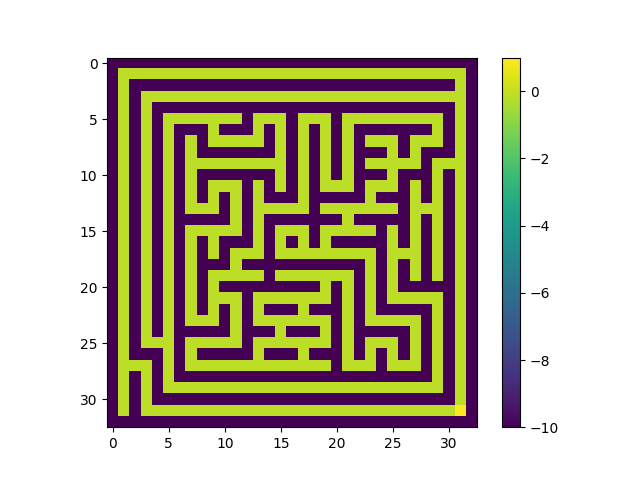
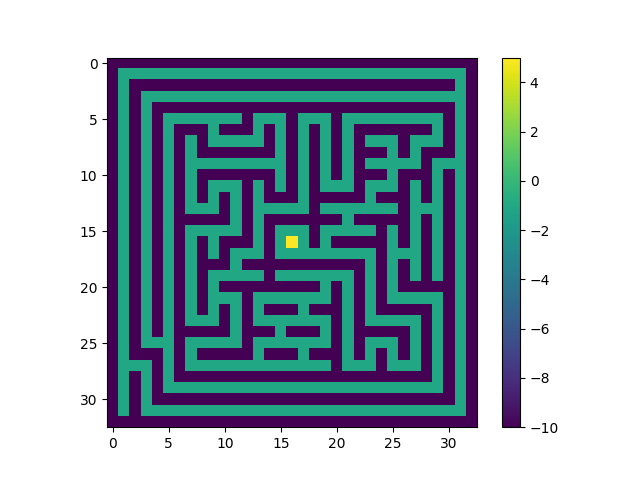
so much change

diff --git a/grid_world.py b/grid_world.py
@@ -2,7 +2,7 @@ import numpy as np
 from webcamcapture import output
 
 # hyper parameters
-GOAL_REWARD = 1
+GOAL_REWARD = 5
 RED_REWARD = -10
 BLUE_REWARD = RED_REWARD/2
 STEP_COST = -1
@@ -207,49 +207,49 @@ def make_grid(y, x, num_obstacles):
             rewards[(j,i)] = STEP_COST
 
     #Adds manual obstacle rewards
-    labyrint = [[1,1,1,1],
-                [0,1,0,0],
-                [0,1,0,1],
-                [1,1,1,1]]
-    goal_x = 3
-    goal_y = 2
-    # labyrint = [[0, 0, 0, 0, 0, 0, 0, 0, 0, 0, 0, 0, 0, 0, 0, 0, 0, 0, 0, 0, 0, 0, 0, 0, 0, 0, 0, 0, 0, 0, 0, 0, 0],
-    #             [0, 1, 1, 1, 1, 1, 1, 1, 1, 1, 1, 1, 1, 1, 1, 1, 1, 1, 1, 1, 1, 1, 1, 1, 1, 1, 1, 1, 1, 1, 1, 1, 0],
-    #             [0, 1, 0, 0, 0, 0, 0, 0, 0, 0, 0, 0, 0, 0, 0, 0, 0, 0, 0, 0, 0, 0, 0, 0, 0, 0, 0, 0, 0, 0, 0, 1, 0],
-    #             [0, 1, 0, 1, 1, 1, 1, 1, 1, 1, 1, 1, 1, 1, 1, 1, 1, 1, 1, 1, 1, 1, 1, 1, 1, 1, 1, 1, 1, 1, 1, 1, 0],
-    #             [0, 1, 0, 1, 0, 0, 0, 0, 0, 0, 0, 0, 0, 0, 0, 0, 0, 0, 0, 0, 0, 0, 0, 0, 0, 0, 0, 0, 0, 0, 0, 1, 0],
-    #             [0, 1, 0, 1, 0, 1, 1, 1, 1, 1, 1, 1, 0, 1, 1, 1, 0, 1, 1, 1, 0, 1, 1, 1, 1, 1, 1, 1, 1, 1, 0, 1, 0],
-    #             [0, 1, 0, 1, 0, 1, 0, 0, 0, 1, 0, 0, 0, 1, 0, 1, 0, 1, 0, 1, 0, 1, 0, 0, 0, 0, 0, 0, 0, 1, 0, 1, 0],
-    #             [0, 1, 0, 1, 0, 1, 0, 1, 0, 1, 1, 1, 1, 1, 0, 1, 0, 1, 0, 1, 0, 1, 0, 1, 1, 1, 0, 1, 1, 1, 0, 1, 0],
-    #             [0, 1, 0, 1, 0, 1, 0, 1, 0, 0, 0, 0, 0, 0, 0, 1, 0, 1, 0, 1, 0, 1, 0, 0, 0, 1, 0, 1, 0, 0, 0, 1, 0],
-    #             [0, 1, 0, 1, 0, 1, 0, 1, 1, 1, 1, 1, 1, 1, 1, 1, 0, 1, 0, 1, 0, 1, 0, 1, 1, 1, 1, 1, 0, 1, 1, 1, 0],
-    #             [0, 1, 0, 1, 0, 1, 0, 1, 0, 0, 0, 0, 0, 0, 0, 1, 0, 1, 0, 1, 0, 1, 0, 0, 0, 1, 0, 0, 0, 1, 0, 1, 0],
-    #             [0, 1, 0, 1, 0, 1, 0, 1, 0, 1, 1, 1, 0, 1, 0, 1, 0, 1, 0, 1, 1, 1, 0, 1, 1, 1, 0, 1, 0, 1, 0, 1, 0],
-    #             [0, 1, 0, 1, 0, 1, 0, 1, 0, 1, 0, 1, 0, 1, 0, 0, 0, 1, 0, 0, 0, 0, 0, 1, 0, 0, 0, 1, 0, 1, 0, 1, 0],
-    #             [0, 1, 0, 1, 0, 1, 0, 1, 1, 1, 0, 1, 0, 1, 1, 1, 1, 1, 0, 1, 1, 1, 1, 1, 1, 1, 0, 1, 1, 1, 0, 1, 0],
-    #             [0, 1, 0, 1, 0, 1, 0, 0, 0, 0, 0, 1, 0, 1, 0, 0, 0, 0, 0, 0, 0, 1, 0, 0, 0, 0, 0, 1, 0, 1, 0, 1, 0],
-    #             [0, 1, 0, 1, 0, 1, 0, 1, 1, 1, 1, 1, 0, 1, 0, 1, 1, 1, 0, 1, 1, 1, 1, 1, 0, 1, 0, 1, 0, 1, 0, 1, 0],
-    #             [0, 1, 0, 1, 0, 1, 0, 1, 0, 1, 0, 0, 0, 1, 0, 1, 0, 1, 0, 1, 0, 0, 0, 0, 0, 1, 0, 1, 0, 1, 0, 1, 0],
-    #             [0, 1, 0, 1, 0, 1, 0, 1, 0, 1, 0, 1, 1, 1, 0, 1, 1, 1, 1, 1, 1, 1, 1, 1, 0, 1, 1, 1, 0, 1, 0, 1, 0],
-    #             [0, 1, 0, 1, 0, 1, 0, 1, 0, 0, 0, 1, 0, 0, 0, 0, 0, 0, 0, 0, 0, 0, 0, 1, 0, 1, 0, 1, 0, 1, 0, 1, 0],
-    #             [0, 1, 0, 1, 0, 1, 0, 1, 0, 1, 1, 1, 1, 1, 0, 1, 1, 1, 1, 1, 1, 1, 0, 1, 0, 1, 0, 1, 0, 1, 0, 1, 0],
-    #             [0, 1, 0, 1, 0, 1, 0, 1, 0, 1, 0, 0, 0, 0, 0, 0, 0, 0, 0, 1, 0, 1, 0, 1, 0, 1, 0, 0, 0, 0, 0, 1, 0],
-    #             [0, 1, 0, 1, 0, 1, 0, 1, 0, 1, 1, 1, 0, 1, 1, 1, 1, 1, 1, 1, 0, 1, 0, 1, 0, 1, 1, 1, 1, 1, 0, 1, 0],
-    #             [0, 1, 0, 1, 0, 1, 0, 1, 0, 1, 0, 1, 0, 1, 0, 0, 0, 1, 0, 0, 0, 1, 0, 1, 0, 0, 0, 0, 0, 1, 0, 1, 0],
-    #             [0, 1, 0, 1, 0, 1, 0, 1, 1, 1, 0, 1, 0, 1, 1, 1, 1, 1, 1, 1, 0, 1, 0, 1, 1, 1, 1, 1, 0, 1, 0, 1, 0],
-    #             [0, 1, 0, 1, 0, 1, 0, 0, 0, 0, 0, 1, 0, 0, 0, 1, 0, 0, 0, 1, 0, 1, 0, 0, 0, 0, 0, 1, 0, 1, 0, 1, 0],
-    #             [0, 1, 0, 1, 1, 1, 0, 1, 1, 1, 1, 1, 0, 1, 1, 1, 1, 1, 1, 1, 0, 1, 0, 1, 1, 1, 0, 1, 0, 1, 0, 1, 0],
-    #             [0, 1, 0, 0, 0, 1, 0, 1, 0, 0, 0, 0, 0, 1, 0, 0, 0, 1, 0, 0, 0, 1, 0, 1, 0, 1, 0, 1, 0, 1, 0, 1, 0],
-    #             [0, 1, 1, 1, 0, 1, 0, 1, 1, 1, 1, 1, 1, 1, 1, 1, 1, 1, 1, 1, 0, 1, 1, 1, 0, 1, 1, 1, 0, 1, 0, 1, 0],
-    #             [0, 1, 0, 1, 0, 1, 0, 0, 0, 0, 0, 0, 0, 0, 0, 0, 0, 0, 0, 0, 0, 0, 0, 0, 0, 0, 0, 0, 0, 1, 0, 1, 0],
-    #             [0, 1, 0, 1, 0, 1, 1, 1, 1, 1, 1, 1, 1, 1, 1, 1, 1, 1, 1, 1, 1, 1, 1, 1, 1, 1, 1, 1, 1, 1, 0, 1, 0],
-    #             [0, 1, 0, 1, 0, 0, 0, 0, 0, 0, 0, 0, 0, 0, 0, 0, 0, 0, 0, 0, 0, 0, 0, 0, 0, 0, 0, 0, 0, 0, 0, 1, 0],
-    #             [0, 1, 0, 1, 1, 1, 1, 1, 1, 1, 1, 1, 1, 1, 1, 1, 1, 1, 1, 1, 1, 1, 1, 1, 1, 1, 1, 1, 1, 1, 1, 1, 0],
-    #             [0, 0, 0, 0, 0, 0, 0, 0, 0, 0, 0, 0, 0, 0, 0, 0, 0, 0, 0, 0, 0, 0, 0, 0, 0, 0, 0, 0, 0, 0, 0, 0, 0]]
-    #goal_x = 16
-    #goal_y = 16
-    # k = 0
-    # l = 0
+    # labyrint = [[1,1,1,1],
+    #             [0,1,0,0],
+    #             [0,1,0,1],
+    #             [1,1,1,1]]
+    # goal_x = 3
+    # goal_y = 2
+    labyrint = [[0, 0, 0, 0, 0, 0, 0, 0, 0, 0, 0, 0, 0, 0, 0, 0, 0, 0, 0, 0, 0, 0, 0, 0, 0, 0, 0, 0, 0, 0, 0, 0, 0],
+                [0, 1, 1, 1, 1, 1, 1, 1, 1, 1, 1, 1, 1, 1, 1, 1, 1, 1, 1, 1, 1, 1, 1, 1, 1, 1, 1, 1, 1, 1, 1, 1, 0],
+                [0, 1, 0, 0, 0, 0, 0, 0, 0, 0, 0, 0, 0, 0, 0, 0, 0, 0, 0, 0, 0, 0, 0, 0, 0, 0, 0, 0, 0, 0, 0, 1, 0],
+                [0, 1, 0, 1, 1, 1, 1, 1, 1, 1, 1, 1, 1, 1, 1, 1, 1, 1, 1, 1, 1, 1, 1, 1, 1, 1, 1, 1, 1, 1, 1, 1, 0],
+                [0, 1, 0, 1, 0, 0, 0, 0, 0, 0, 0, 0, 0, 0, 0, 0, 0, 0, 0, 0, 0, 0, 0, 0, 0, 0, 0, 0, 0, 0, 0, 1, 0],
+                [0, 1, 0, 1, 0, 1, 1, 1, 1, 1, 1, 1, 0, 1, 1, 1, 0, 1, 1, 1, 0, 1, 1, 1, 1, 1, 1, 1, 1, 1, 0, 1, 0],
+                [0, 1, 0, 1, 0, 1, 0, 0, 0, 1, 0, 0, 0, 1, 0, 1, 0, 1, 0, 1, 0, 1, 0, 0, 0, 0, 0, 0, 0, 1, 0, 1, 0],
+                [0, 1, 0, 1, 0, 1, 0, 1, 0, 1, 1, 1, 1, 1, 0, 1, 0, 1, 0, 1, 0, 1, 0, 1, 1, 1, 0, 1, 1, 1, 0, 1, 0],
+                [0, 1, 0, 1, 0, 1, 0, 1, 0, 0, 0, 0, 0, 0, 0, 1, 0, 1, 0, 1, 0, 1, 0, 0, 0, 1, 0, 1, 0, 0, 0, 1, 0],
+                [0, 1, 0, 1, 0, 1, 0, 1, 1, 1, 1, 1, 1, 1, 1, 1, 0, 1, 0, 1, 0, 1, 0, 1, 1, 1, 1, 1, 0, 1, 1, 1, 0],
+                [0, 1, 0, 1, 0, 1, 0, 1, 0, 0, 0, 0, 0, 0, 0, 1, 0, 1, 0, 1, 0, 1, 0, 0, 0, 1, 0, 0, 0, 1, 0, 1, 0],
+                [0, 1, 0, 1, 0, 1, 0, 1, 0, 1, 1, 1, 0, 1, 0, 1, 0, 1, 0, 1, 1, 1, 0, 1, 1, 1, 0, 1, 0, 1, 0, 1, 0],
+                [0, 1, 0, 1, 0, 1, 0, 1, 0, 1, 0, 1, 0, 1, 0, 0, 0, 1, 0, 0, 0, 0, 0, 1, 0, 0, 0, 1, 0, 1, 0, 1, 0],
+                [0, 1, 0, 1, 0, 1, 0, 1, 1, 1, 0, 1, 0, 1, 1, 1, 1, 1, 0, 1, 1, 1, 1, 1, 1, 1, 0, 1, 1, 1, 0, 1, 0],
+                [0, 1, 0, 1, 0, 1, 0, 0, 0, 0, 0, 1, 0, 1, 0, 0, 0, 0, 0, 0, 0, 1, 0, 0, 0, 0, 0, 1, 0, 1, 0, 1, 0],
+                [0, 1, 0, 1, 0, 1, 0, 1, 1, 1, 1, 1, 0, 1, 0, 1, 1, 1, 0, 1, 1, 1, 1, 1, 0, 1, 0, 1, 0, 1, 0, 1, 0],
+                [0, 1, 0, 1, 0, 1, 0, 1, 0, 1, 0, 0, 0, 1, 0, 1, 0, 1, 0, 1, 0, 0, 0, 0, 0, 1, 0, 1, 0, 1, 0, 1, 0],
+                [0, 1, 0, 1, 0, 1, 0, 1, 0, 1, 0, 1, 1, 1, 0, 1, 1, 1, 1, 1, 1, 1, 1, 1, 0, 1, 1, 1, 0, 1, 0, 1, 0],
+                [0, 1, 0, 1, 0, 1, 0, 1, 0, 0, 0, 1, 0, 0, 0, 0, 0, 0, 0, 0, 0, 0, 0, 1, 0, 1, 0, 1, 0, 1, 0, 1, 0],
+                [0, 1, 0, 1, 0, 1, 0, 1, 0, 1, 1, 1, 1, 1, 0, 1, 1, 1, 1, 1, 1, 1, 0, 1, 0, 1, 0, 1, 0, 1, 0, 1, 0],
+                [0, 1, 0, 1, 0, 1, 0, 1, 0, 1, 0, 0, 0, 0, 0, 0, 0, 0, 0, 1, 0, 1, 0, 1, 0, 1, 0, 0, 0, 0, 0, 1, 0],
+                [0, 1, 0, 1, 0, 1, 0, 1, 0, 1, 1, 1, 0, 1, 1, 1, 1, 1, 1, 1, 0, 1, 0, 1, 0, 1, 1, 1, 1, 1, 0, 1, 0],
+                [0, 1, 0, 1, 0, 1, 0, 1, 0, 1, 0, 1, 0, 1, 0, 0, 0, 1, 0, 0, 0, 1, 0, 1, 0, 0, 0, 0, 0, 1, 0, 1, 0],
+                [0, 1, 0, 1, 0, 1, 0, 1, 1, 1, 0, 1, 0, 1, 1, 1, 1, 1, 1, 1, 0, 1, 0, 1, 1, 1, 1, 1, 0, 1, 0, 1, 0],
+                [0, 1, 0, 1, 0, 1, 0, 0, 0, 0, 0, 1, 0, 0, 0, 1, 0, 0, 0, 1, 0, 1, 0, 0, 0, 0, 0, 1, 0, 1, 0, 1, 0],
+                [0, 1, 0, 1, 1, 1, 0, 1, 1, 1, 1, 1, 0, 1, 1, 1, 1, 1, 1, 1, 0, 1, 0, 1, 1, 1, 0, 1, 0, 1, 0, 1, 0],
+                [0, 1, 0, 0, 0, 1, 0, 1, 0, 0, 0, 0, 0, 1, 0, 0, 0, 1, 0, 0, 0, 1, 0, 1, 0, 1, 0, 1, 0, 1, 0, 1, 0],
+                [0, 1, 1, 1, 0, 1, 0, 1, 1, 1, 1, 1, 1, 1, 1, 1, 1, 1, 1, 1, 0, 1, 1, 1, 0, 1, 1, 1, 0, 1, 0, 1, 0],
+                [0, 1, 0, 1, 0, 1, 0, 0, 0, 0, 0, 0, 0, 0, 0, 0, 0, 0, 0, 0, 0, 0, 0, 0, 0, 0, 0, 0, 0, 1, 0, 1, 0],
+                [0, 1, 0, 1, 0, 1, 1, 1, 1, 1, 1, 1, 1, 1, 1, 1, 1, 1, 1, 1, 1, 1, 1, 1, 1, 1, 1, 1, 1, 1, 0, 1, 0],
+                [0, 1, 0, 1, 0, 0, 0, 0, 0, 0, 0, 0, 0, 0, 0, 0, 0, 0, 0, 0, 0, 0, 0, 0, 0, 0, 0, 0, 0, 0, 0, 1, 0],
+                [0, 1, 0, 1, 1, 1, 1, 1, 1, 1, 1, 1, 1, 1, 1, 1, 1, 1, 1, 1, 1, 1, 1, 1, 1, 1, 1, 1, 1, 1, 1, 1, 0],
+                [0, 0, 0, 0, 0, 0, 0, 0, 0, 0, 0, 0, 0, 0, 0, 0, 0, 0, 0, 0, 0, 0, 0, 0, 0, 0, 0, 0, 0, 0, 0, 0, 0]]
+    goal_x = 16
+    goal_y = 16
+    k = 0
+    l = 0
 
     for i in labyrint:
         for j in i:
@@ -263,10 +263,10 @@ def make_grid(y, x, num_obstacles):
 
 
     #Adds goal and obstacle rewards
-    for _ in range(num_obstacles):
-       rewards[(np.random.randint(0,y-1),np.random.randint(0,x-1))] = RED_REWARD 
-    rewards[(x-1,y-1)] = GOAL_REWARD
-    rewards[START_STATE] = STEP_COST
+    # for _ in range(num_obstacles):
+    #    rewards[(np.random.randint(0,y-1),np.random.randint(0,x-1))] = RED_REWARD 
+    # rewards[(x-1,y-1)] = GOAL_REWARD
+    # rewards[START_STATE] = STEP_COST
 
     g.set(rewards, actions)
     return g

diff --git a/q_learning.py b/q_learning.py
@@ -11,12 +11,12 @@ ALPHA = 0.1
 ALL_POSSIBLE_ACTIONS = ('U', 'D', 'L', 'R')
 DEBUG = True
 MANUAL = True
-GRID_Y = 4
-GRID_X = 4
+GRID_Y = 33
+GRID_X = 33
 PREV_POLICY = {}
 PREV_STATE = ()
 PREV_Q = {}
-NUM_EPISODES = 80000
+NUM_EPISODES = 0
 
 
 def max_dict(d):
